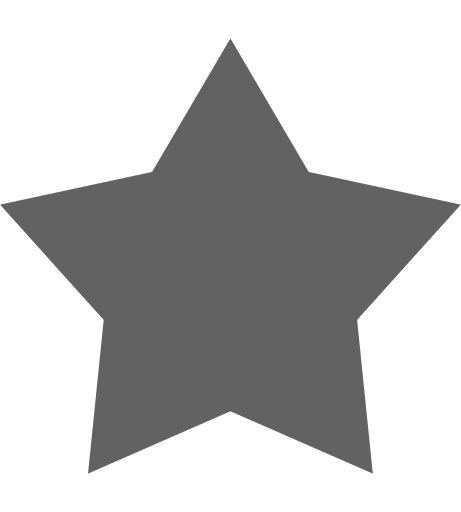
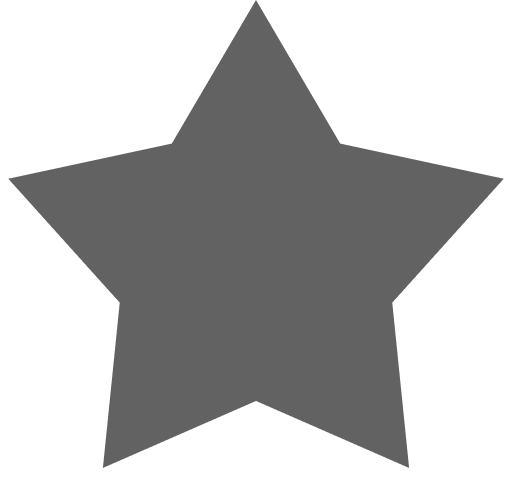
[65] 중간 작업사항 저장

Changed region(s): [[0.0, 0.0, 1.0, 0.6138], [0.1822, 0.6138, 0.82, 0.9937]]

diff --git a/src/common/components/starContainer/StarContainer.js b/src/common/components/starContainer/StarContainer.js
@@ -4,15 +4,17 @@ import styled from "styled-components";
 
 import starEmpty from "../../../assets/icon-star-empty.png";
 import starFull from "../../../assets/icon-star-full.png";
+import starHalf from "../../../assets/icon-star-half.png";
 
 const StyledDiv = styled.div`
   margin: 3% 0;
   display: flex;
   align-items: center;
-  width: 20%;
+  width: ${(props) => props.width};
 
   .star {
-    width: 17%;
+    width: 100%;
+    height: 100%;
   }
 
   .rating-number {
@@ -21,30 +23,67 @@ const StyledDiv = styled.div`
   }
 `;
 
-function StarContainer({ rating, showRatingNumber }) {
+const ImageContainer = styled.div`
+  display: flex;
+  align-items: center;
+  width: 17%;
+`;
+
+function StarContainer({ rating, showRatingNumber, onClick, width }) {
+  function starClickHandler(starNumber) {
+    onClick(starNumber);
+  }
+
+  function setStarImageByRating(
+    emptyStarThreshold,
+    halfStarThreshold,
+    ratingInput
+  ) {
+    let imageSrc = starEmpty;
+
+    if (ratingInput > emptyStarThreshold) {
+      if (ratingInput < halfStarThreshold) {
+        imageSrc = starHalf;
+      }
+      imageSrc = starFull;
+    }
+
+    return imageSrc;
+  }
+
   return (
-    <StyledDiv>
-      <img className="star" src={starFull} alt="star" />
-      <img
-        className="star"
-        src={rating > 1 ? starFull : starEmpty}
-        alt="star"
-      />
-      <img
-        className="star"
-        src={rating > 2 ? starFull : starEmpty}
-        alt="star"
-      />
-      <img
-        className="star"
-        src={rating > 3 ? starFull : starEmpty}
-        alt="star"
-      />
-      <img
-        className="star"
-        src={rating > 4 ? starFull : starEmpty}
-        alt="star"
-      />
+    <StyledDiv width={width}>
+      <ImageContainer onClick={starClickHandler.bind(this, 1)}>
+        <img className="star" src={starFull} alt="star" />
+      </ImageContainer>
+      <ImageContainer onClick={starClickHandler.bind(this, 2)}>
+        <img
+          className="star"
+          src={setStarImageByRating(1, 2, rating)}
+          alt="star"
+        />
+      </ImageContainer>
+      <ImageContainer onClick={starClickHandler.bind(this, 3)}>
+        <img
+          className="star"
+          src={setStarImageByRating(2, 3, rating)}
+          alt="star"
+        />
+      </ImageContainer>
+      <ImageContainer onClick={starClickHandler.bind(this, 4)}>
+        <img
+          className="star"
+          src={setStarImageByRating(3, 4, rating)}
+          alt="star"
+        />
+      </ImageContainer>
+      <ImageContainer onClick={starClickHandler.bind(this, 5)}>
+        <img
+          className="star"
+          src={setStarImageByRating(4, 5, rating)}
+          alt="star"
+        />
+      </ImageContainer>
       {showRatingNumber && <div className="rating-number">{rating}</div>}
     </StyledDiv>
   );
@@ -53,10 +92,14 @@ function StarContainer({ rating, showRatingNumber }) {
 StarContainer.propTypes = {
   rating: PropTypes.number.isRequired,
   showRatingNumber: PropTypes.bool,
+  onClick: PropTypes.func,
+  width: PropTypes.string,
 };
 
 StarContainer.defaultProps = {
   showRatingNumber: true,
+  onClick: () => {},
+  width: "20%",
 };
 
 export default StarContainer;

diff --git a/src/features/review/ReviewEdit.js b/src/features/review/ReviewEdit.js
@@ -1,23 +1,64 @@
-import React from "react";
+import React, { useState } from "react";
 // import { useNavigate } from "react-router-dom";
 import styled from "styled-components";
 
 import HeaderSub from "../../common/components/headers/HeaderSub";
+import StarContainer from "../../common/components/starContainer/StarContainer";
+import { COLOR } from "../../common/util/constants";
 
-const StyledReviewEdit = styled.div`
+const StyledDiv = styled.div`
   width: 100%;
+  height: 100%;
   display: flex;
   flex-direction: column;
   background-color: black;
+
+  .title {
+    color: ${COLOR.LIGHTGOLD};
+  }
+`;
+
+const StyledMain = styled.main`
+  padding: 0 5%;
+
+  .test {
+    width: 50%;
+  }
+`;
+
+const StarInput = styled.div`
+  display: flex;
+  align-items: center;
+  justify-content: space-evenly;
+  color: ${COLOR.GREY};
+  margin: 0 auto;
+  font-size: 1.5rem;
 `;
 
 function ReviewEdit() {
+  const [enteredRating, setEnteredRating] = useState(1);
   // const navigate = useNavigate();
 
+  function starClickHandler(starNumber) {
+    setEnteredRating(starNumber);
+  }
+
   return (
-    <StyledReviewEdit>
+    <StyledDiv>
       <HeaderSub />
-    </StyledReviewEdit>
+      <StyledMain>
+        <h1 className="title">리뷰남기기</h1>
+        <StarInput>
+          청결도 점수
+          <StarContainer
+            rating={enteredRating}
+            showRatingNumber={false}
+            onClick={starClickHandler}
+            width="50%"
+          />
+        </StarInput>
+      </StyledMain>
+    </StyledDiv>
   );
 }
 

diff --git a/src/common/components/GlobalStyle.js b/src/common/components/GlobalStyle.js
@@ -6,13 +6,19 @@ const GlobalStyle = createGlobalStyle`
     display: flex;
     justify-content: center;
     background-color: white;
+    height: 100vh;
   }
 
   body {
     max-width: 428px;
     min-width: 320px;
     width: 100%;
+    height: inherit;
     font-family: Noto Sans KR, sans-serif;
+  }
+
+  #root {
+    height: 100%;
   }
 `;
 

diff --git a/src/common/util/constants.js b/src/common/util/constants.js
@@ -1,0 +1,8 @@
+export const COLOR = {
+  LIGHTGOLD: "#DEC16D",
+  HEAVYGOLD: "#BC955C",
+  GREY: "#C0C0C0",
+};
+
+// eslint 때문에 생성해둔 객체입니다. 나중에 상수로 관리할값이 추가될 경우 지워주시기 바랍니다.
+export const placeholder = {};
